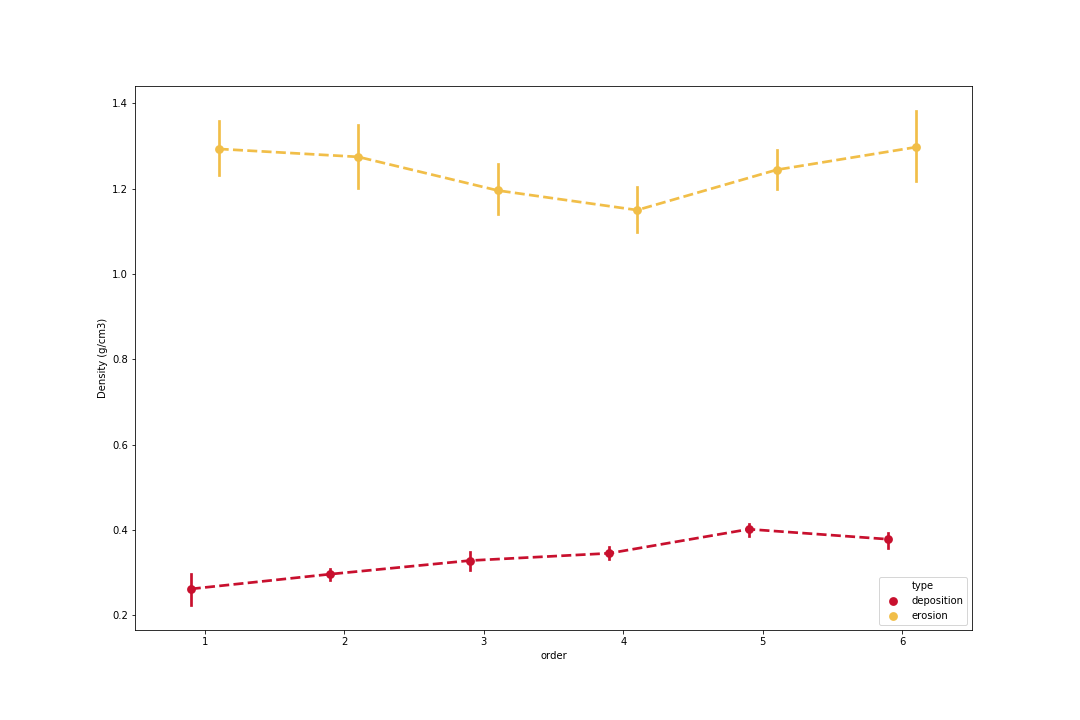
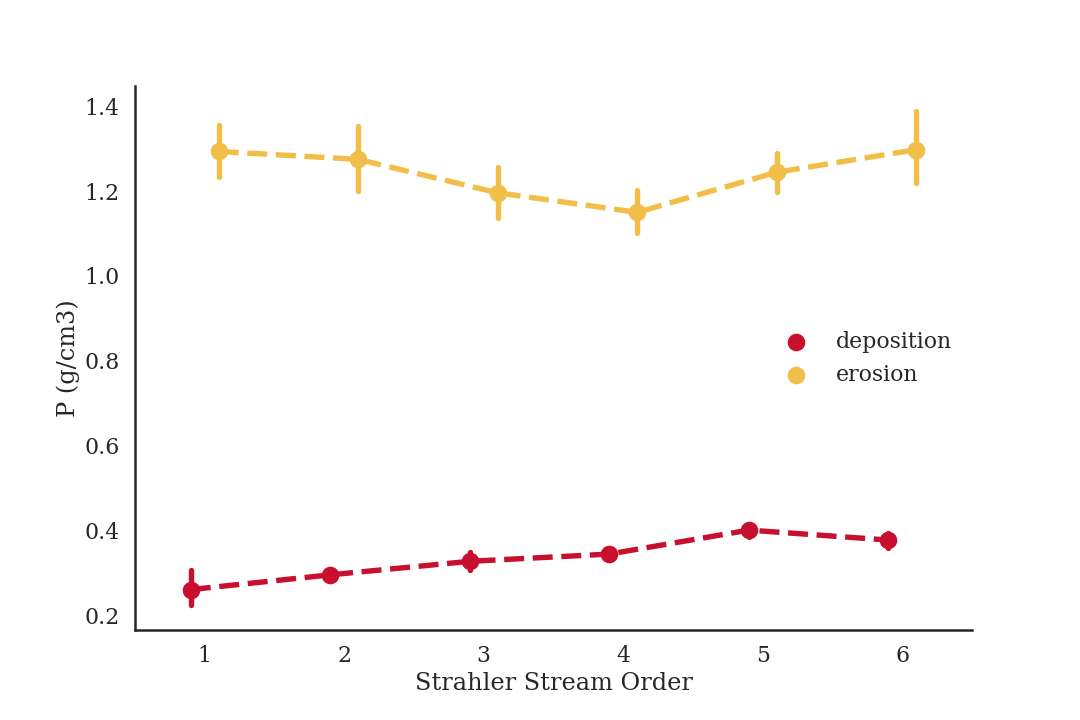
small edits

diff --git a/p_graph.py b/p_graph.py
@@ -40,18 +40,25 @@ data = pd.read_csv('p_grouped.csv')
 
 ppArgs = {'hue':'type', 'dodge':0.2, 'palette':['#C8102E', '#F1BE48'], 'linestyles':'--',
           'data':data}
+sns.set('poster', font='serif', style='white')
 
 f, (ax1) = plt.subplots(1, 1, figsize=(15, 10))
 sns.pointplot('order','P (mg/kg)', ax=ax1 , **ppArgs)
+ax1.set(xlabel='Strahler Stream Order', ylabel='P (mg/kg)')
+ax1.legend(loc='upper left', frameon=False)
+sns.despine()
 plt.savefig('P.png')
 
 f, (ax1) = plt.subplots(1, 1, figsize=(15, 10))
 sns.pointplot('order','Density (g/cm3)', ax=ax1, **ppArgs)
+ax1.set(xlabel='Strahler Stream Order', ylabel='P (g/cm3)')
+ax1.legend(loc='best', frameon=False)
+sns.despine()
 plt.savefig('Density.png')
 
 f, (ax1) = plt.subplots(1, 1, figsize=(15, 10))
 sns.pointplot('order','P Density (kg/m3)', ax=ax1, **ppArgs)
+ax1.set(xlabel='Strahler Stream Order', ylabel=r'P Density (kg/m^3)')
+ax1.legend(loc='upper left', frameon=False)
+sns.despine()
 plt.savefig('P Density.png')
-
-
-    

diff --git a/p_cleaning.py b/p_cleaning.py
@@ -82,3 +82,12 @@ clean['P Density (kg/m3)'] = clean['P Density (kg/m3)'].astype('float')
 clean[['core_code', 'unit', 'depth', 'order', 'type']] = clean[['core_code', 'unit', 'depth', 'order', 'type']].astype('str')
 grouped = clean.groupby(['core_code', 'unit', 'depth', 'order', 'type']).mean().reset_index()
 grouped.to_csv('p_grouped.csv')
+
+
+transform = {'Density (g/cm3)':['mean', 'std', 'sem'],
+             'P (mg/kg)':['mean', 'std', 'sem'],
+             'P Density (kg/m3)':['mean', 'std', 'sem']}
+groupedOrder = clean.groupby(['order', 'type']).agg(transform)
+groupedOrder.columns = [" ".join(x) for x in groupedOrder.columns.ravel()]
+groupedOrder.to_csv('p_groupedOrder.csv')
+
